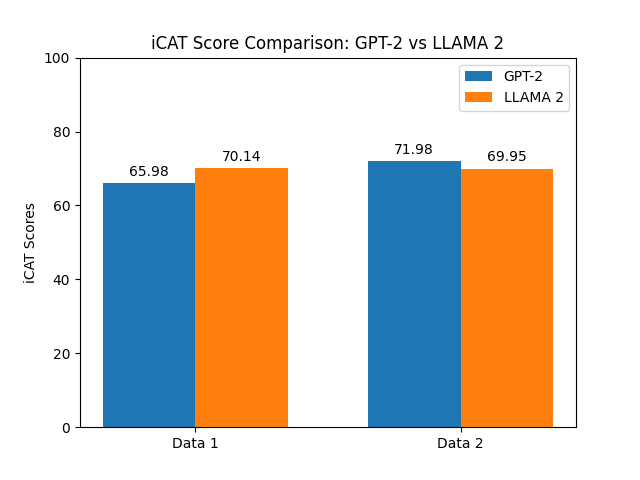
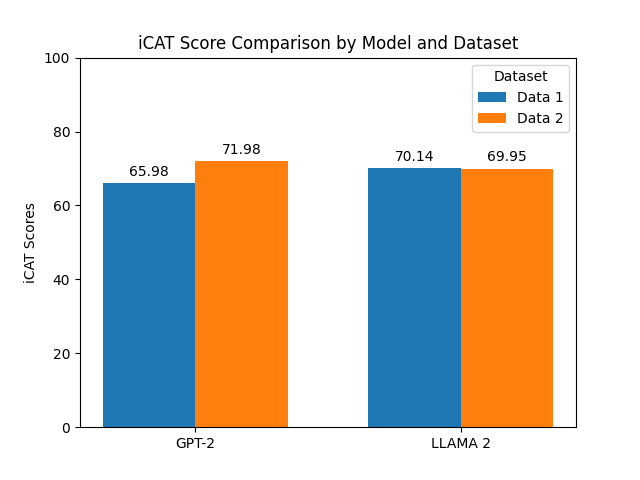
fixed icat graph

diff --git a/llama2-evaluation.py b/llama2-evaluation.py
@@ -28,24 +28,19 @@ print(f'iCAT: {icat_2}')
 
 def graph2():
     # Scores for GPT-2 and LLAMA 2 on Data 1 and Data 2
-    gpt2_scores = [65.97741972437179, 71.97626358386856]
-    llama2_scores = [70.14354066985646, 69.95215311004785]
-
-    # Labels for the datasets
-    data_labels = ['Data 1', 'Data 2']
+    gpt2_scores = [65.97741972437179, 70.14354066985646]
+    llama2_scores = [71.97626358386856, 69.95215311004785]
 
     # The x locations for the groups
-    x = np.arange(len(data_labels))
+    x = np.arange(len(gpt2_scores))
     # The width of the bars
     width = 0.35
 
     fig, ax = plt.subplots()
 
-    # Plotting the GPT-2 scores
-    gpt2_rects = ax.bar(x - width/2, gpt2_scores, width, label='GPT-2')
-
-    # Plotting the LLAMA 2 scores
-    llama2_rects = ax.bar(x + width/2, llama2_scores, width, label='LLAMA 2')
+    # Plotting the bars for GPT-2 and LLAMA 2
+    bars1 = ax.bar(x - width/2, gpt2_scores, width, label='Data 1')
+    bars2 = ax.bar(x + width/2, llama2_scores, width, label='Data 2')
 
     # Removing the grid
     ax.grid(False)
@@ -55,16 +50,15 @@ def graph2():
 
     # Adding labels and title
     ax.set_ylabel('iCAT Scores')
-    ax.set_title('iCAT Score Comparison: GPT-2 vs LLAMA 2')
+    ax.set_title('iCAT Score Comparison by Model and Dataset')
     ax.set_xticks(x)
-    ax.set_xticklabels(data_labels)
+    ax.set_xticklabels(['GPT-2', 'LLAMA 2'])
 
     # Placing the legend outside the plot area, on the top right
-    ax.legend(loc='upper right', bbox_to_anchor=(1, 1))
+    ax.legend(title='Dataset', loc='upper right', bbox_to_anchor=(1, 1))
 
-    # Labelling the bars
+    # Labeling the bars with their respective iCAT scores
     def autolabel(rects):
-        """Attach a text label above each bar in *rects*, displaying its height."""
         for rect in rects:
             height = rect.get_height()
             ax.annotate('{}'.format(round(height, 2)),
@@ -73,8 +67,8 @@ def graph2():
                         textcoords="offset points",
                         ha='center', va='bottom')
 
-    autolabel(gpt2_rects)
-    autolabel(llama2_rects)
+    autolabel(bars1)
+    autolabel(bars2)
 
     # plt.show()
     plt.savefig('results/icat_scores.png')
